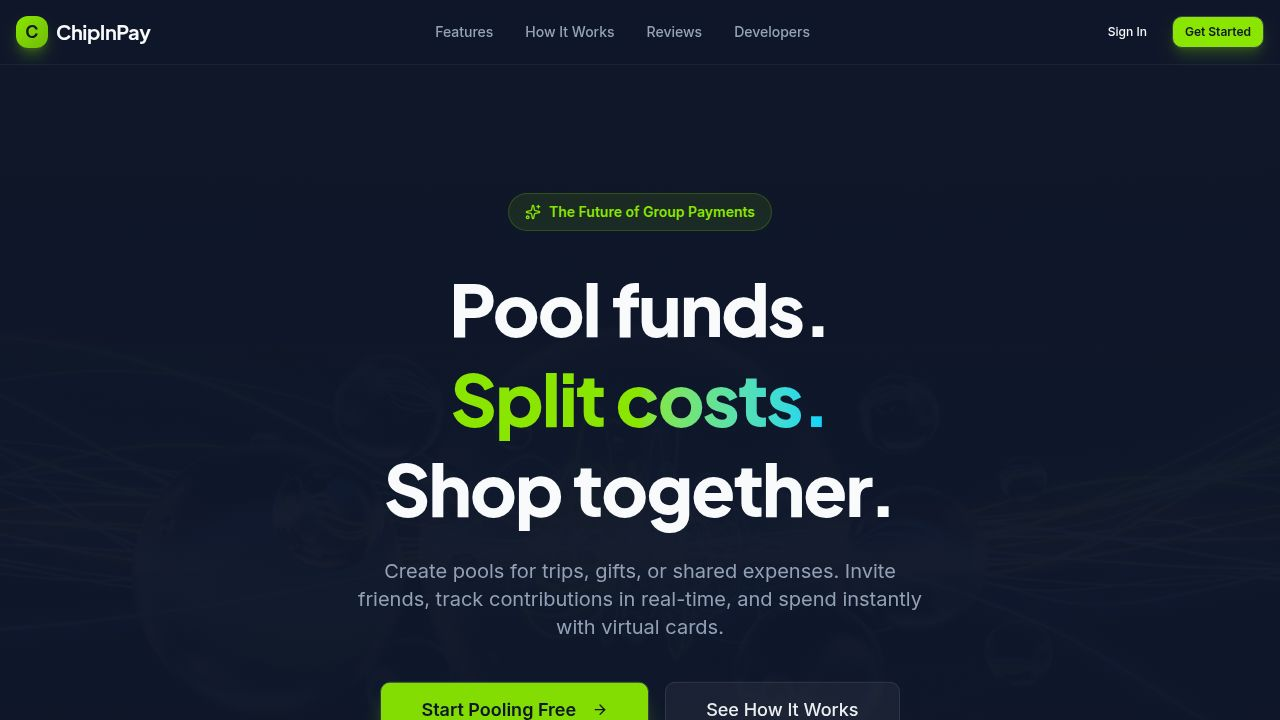
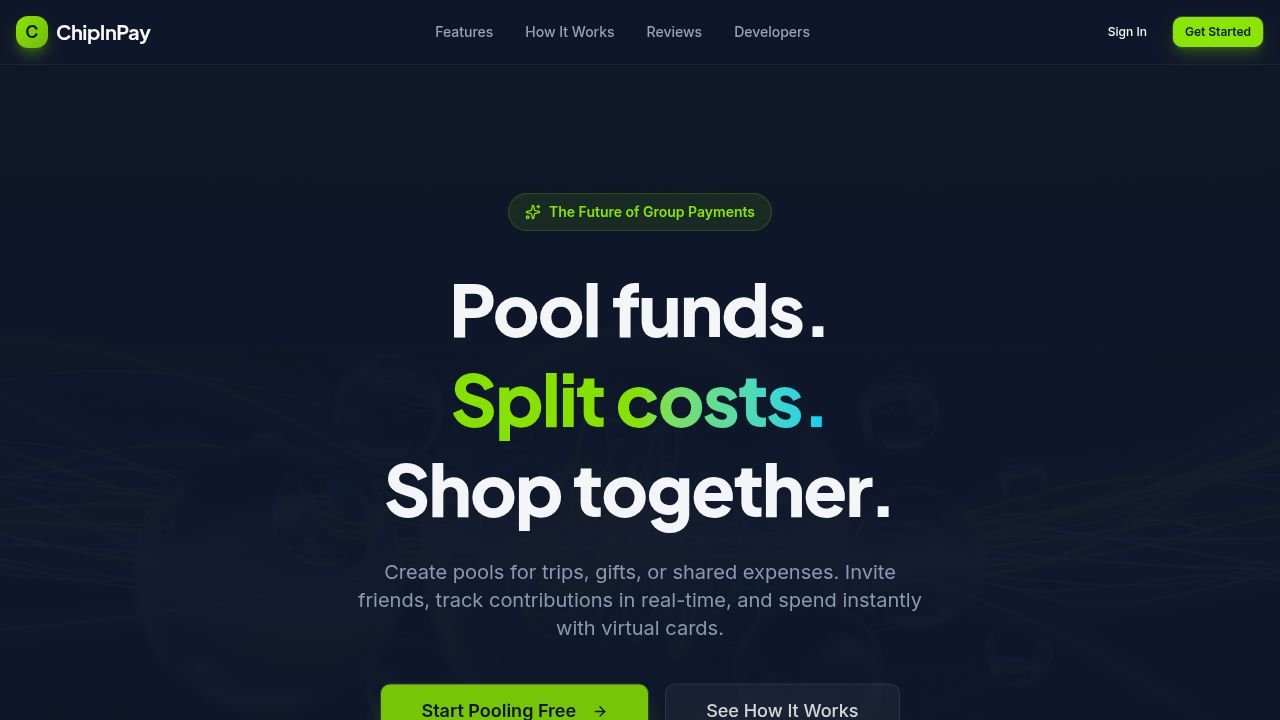
Update website copyright information to reflect the current year and company name
Update copyright notices in layout and landing page components from "© 2025 ChipIn Inc." and "© 2026 ChipInPay Inc." to "© 2026 ChipInPool Corp. All rights reserved." in client/src/components/layout.tsx and client/src/pages/landing.tsx.

Replit-Commit-Author: Agent
Replit-Commit-Session-Id: a2d84e29-56de-462f-b967-9afdd337e12e
Replit-Commit-Checkpoint-Type: full_checkpoint
Replit-Commit-Event-Id: 8e899677-f716-47c7-ad2d-816d8ff35166
Replit-Commit-Screenshot-Url: https://storage.googleapis.com/screenshot-production-us-central1/f008e934-298f-42c0-ba56-0395e2e26b2d/a2d84e29-56de-462f-b967-9afdd337e12e/0fdOBv9
Replit-Helium-Checkpoint-Created: true

diff --git a/client/src/pages/landing.tsx b/client/src/pages/landing.tsx
@@ -352,7 +352,7 @@ export default function Landing() {
             </div>
           </div>
           <div className="border-t border-white/5 pt-8 flex flex-col md:flex-row justify-between items-center gap-4">
-            <p className="text-sm text-muted-foreground">© 2026 ChipInPay Inc. All rights reserved.</p>
+            <p className="text-sm text-muted-foreground">© 2026 ChipInPool Corp. All rights reserved.</p>
             <div className="flex items-center gap-4">
               <a href="#" className="text-muted-foreground hover:text-primary transition-colors">
                 <svg className="w-5 h-5" fill="currentColor" viewBox="0 0 24 24"><path d="M18.244 2.25h3.308l-7.227 8.26 8.502 11.24H16.17l-5.214-6.817L4.99 21.75H1.68l7.73-8.835L1.254 2.25H8.08l4.713 6.231zm-1.161 17.52h1.833L7.084 4.126H5.117z"/></svg>

diff --git a/client/src/components/layout.tsx b/client/src/components/layout.tsx
@@ -282,7 +282,7 @@ export function Layout({ children }: { children: React.ReactNode }) {
 
       <footer className="border-t border-white/5 py-8 mt-auto">
         <div className="container mx-auto px-4 text-center text-sm text-muted-foreground">
-          © 2025 ChipIn Inc. All rights reserved.
+          © 2026 ChipInPool Corp. All rights reserved.
         </div>
       </footer>
     </div>
